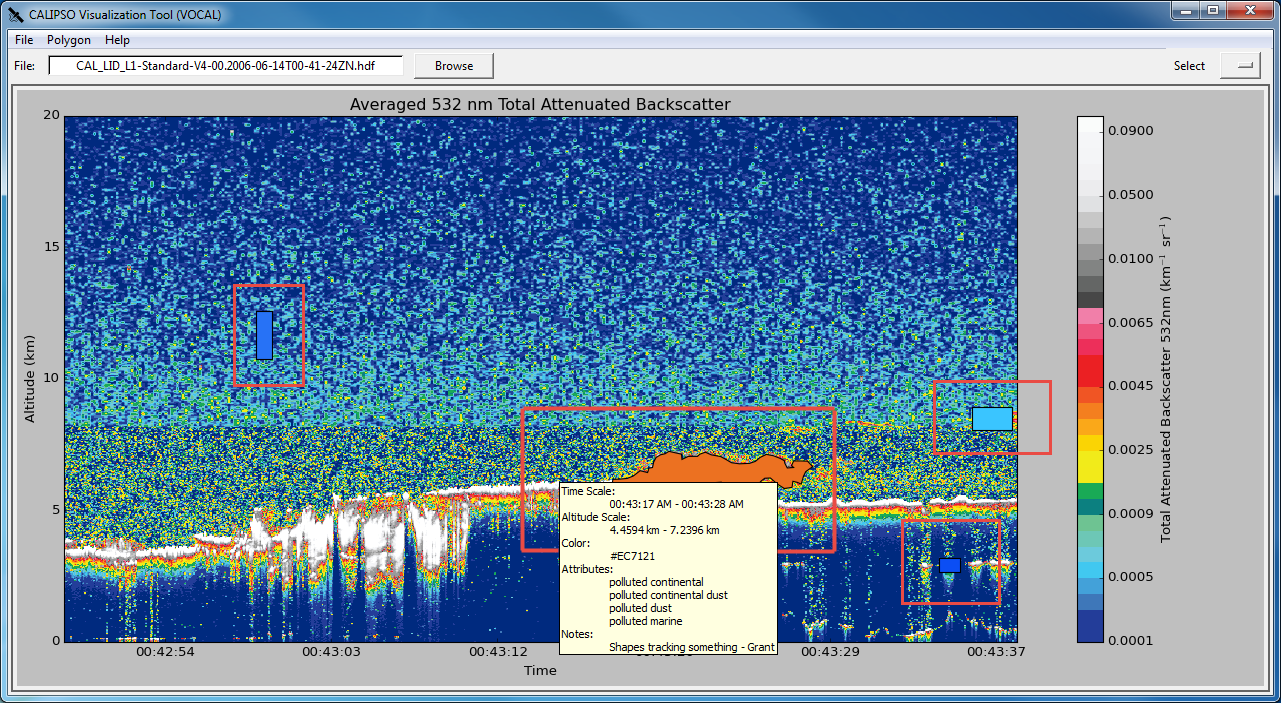
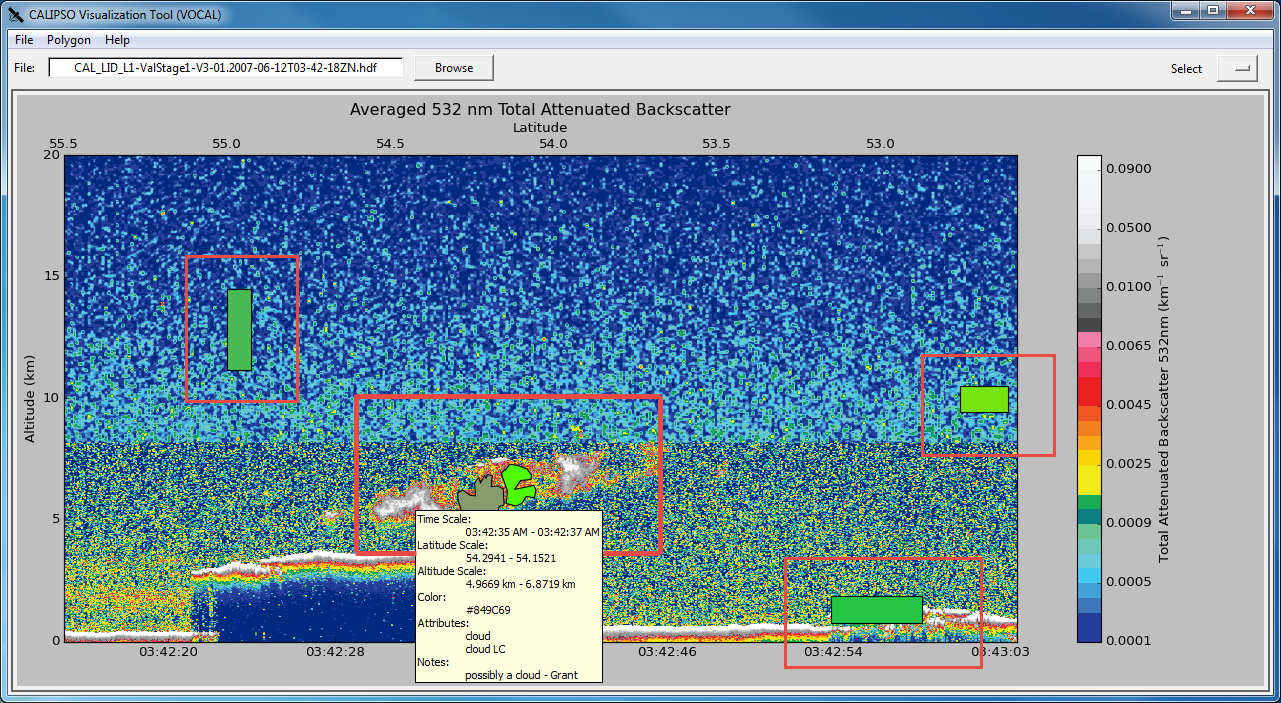
updated tutorial and bug tracker docs

diff --git a/calipso/plot/plot_uniform_alt_lidar_dev.py b/calipso/plot/plot_uniform_alt_lidar_dev.py
@@ -37,7 +37,6 @@ def render_backscattered(filename, x_range, y_range, fig, pfig):
         height = product['metadata']['Lidar_Data_Altitudes']
         dataset = product['Total_Attenuated_Backscatter_532'][x1:x2]
         latitude = product['Latitude'][x1:x2, 0]
-        longitude = product['Longitude'][x1:x2, 0]
 
         time = np.array([ccplot.utils.calipso_time2dt(t) for t in time])
         dataset = np.ma.masked_equal(dataset, -9999)
@@ -77,13 +76,13 @@ def render_backscattered(filename, x_range, y_range, fig, pfig):
         cbar = pfig.colorbar(im)
         cbar.set_label(cbar_label)
 
-    ax = fig.twiny()
-    ax.set_xlabel('Latitude')
-    ax.set_xlim(latitude[0], latitude[-1])
+        ax = fig.twiny()
+        ax.set_xlabel('Latitude')
+        ax.set_xlim(latitude[0], latitude[-1])
 
-    fig.set_zorder(1)
-    ax.set_zorder(0)
+        fig.set_zorder(1)
+        ax.set_zorder(0)
 
-    title = fig.set_title('Averaged 532 nm Total Attenuated Backscatter')
-    title_xy = title.get_position()
-    title.set_position([title_xy[0], title_xy[1]*1.07])
+        title = fig.set_title('Averaged 532 nm Total Attenuated Backscatter')
+        title_xy = title.get_position()
+        title.set_position([title_xy[0], title_xy[1]*1.07])

diff --git a/calipso/importdialog.py b/calipso/importdialog.py
@@ -303,6 +303,7 @@ class ImportDialog(Toplevel):
         """
 
         rng = observer.ranges
+        query_result = self.session.query(DatabasePolygon).all()
 
         # TODO: Fix this implementation
 

diff --git a/docs/source/tutorial.rst b/docs/source/tutorial.rst
@@ -36,6 +36,7 @@ Off to the right is the tools window, this window is dedicated to the manipulati
   depolarized.
 * |step| Specify the range of time to plot to, from ``x`` to ``y``. Default is ``x`` + 1000 if no ``y``, and
   0 - 1000 if neither ``x`` nor ``y``
+* |salt| Specify the range of altitude to plot to, from ``x`` to ``y``. Default is 0 to 20
 * |fren| Visualize the data given the conditions entered into **step** and **backscattered/depolarized**
        
 -----------
@@ -265,6 +266,7 @@ then extract the data from that file and import all objects located in the archi
    :scale: 50%
 .. |fren| image:: _static/render_button.png
 .. |step| image:: _static/step_entry.png
+.. |salt| image:: _static/alt.png
 
 
 .. |expo| image:: _static/exporting_menu.png

diff --git a/docs/source/trouble/issuetracker.rst b/docs/source/trouble/issuetracker.rst
@@ -1,6 +1,13 @@
 Submit Bugs or Issues
 ==============================
 
+.. warning::
+
+   Due to NASA software release, the issue tracker is not currently public as it is tied to our codebase.
+   If you are a NASA employee please email either Grant or Nathan and we can give you access to the issue
+   tracker. If you are not a NASA employee we are sorry and any issues / questions must be emailed to us
+   for the time being.
+
 Issues and bugs can of course be emailed to us via the :doc:`contact page </trouble/contact>`, but vocal has a dedicated issue tracker located on `Github`_. If you run into an issue we would prefer if you took the following steps:
 
 .. note::

diff --git a/docs/source/overview.rst b/docs/source/overview.rst
@@ -8,7 +8,7 @@ The CALIPSO: Global Health & Air Quality project aims at creating a tool with th
 Background
 ----------------------------------------
 
-The CALISPO satellite (Cloud-Aerosol Lidar and Infrafred Pathfinder Satellite Observation) is a NASA
+The CALISPO satellite (Cloud-Aerosol Lidar and Infrared Pathfinder Satellite Observation) is a NASA
 earth observation that analyzes aerosol particles suspended in the Earth's atmosphere. Researchers use 
 CALIPSO data to track the aerosol's global distribution, dispersion and source. However, researchers 
 have a hard time tracking specific airborne objects as the current visualization tool that reads CALIPSO 

diff --git a/docs/source/trouble/faq.rst b/docs/source/trouble/faq.rst
@@ -16,8 +16,8 @@ Troubleshoot
 
   If that is not the case, for Linux users try running ``sudo apt-get install python-imaging-tk`` . Windows users need to take a couple extra steps
 
-  * Remove any related packages on conda, ``conda remove PIL`` or ``conda remove Pilow``
-  * Install ``PIL`` from `here`_ , ``PIL-1.1.7.win32-py2.7.exe``
+  * Remove any related packages on conda, ``conda remove PIL`` or ``conda remove pillow``
+  * Install ``PIL`` from `here`_ , ``PIL-1.1.7.win32-py2.7.exe``. Ensure you install to `Lib/site-packages`
 
 ::
 
